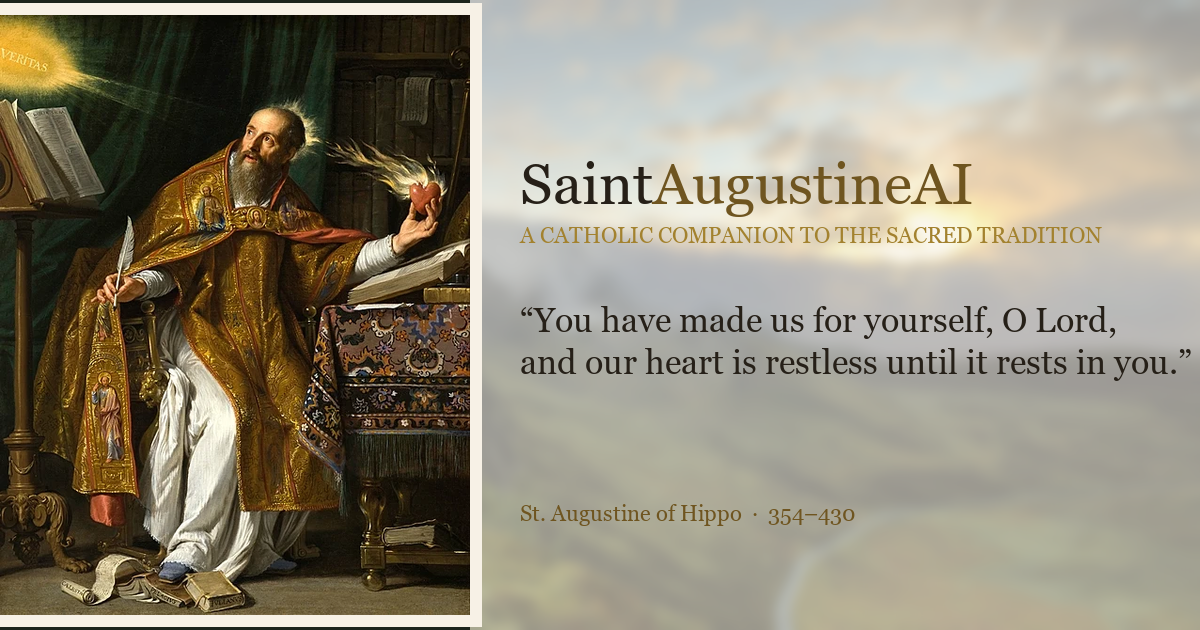
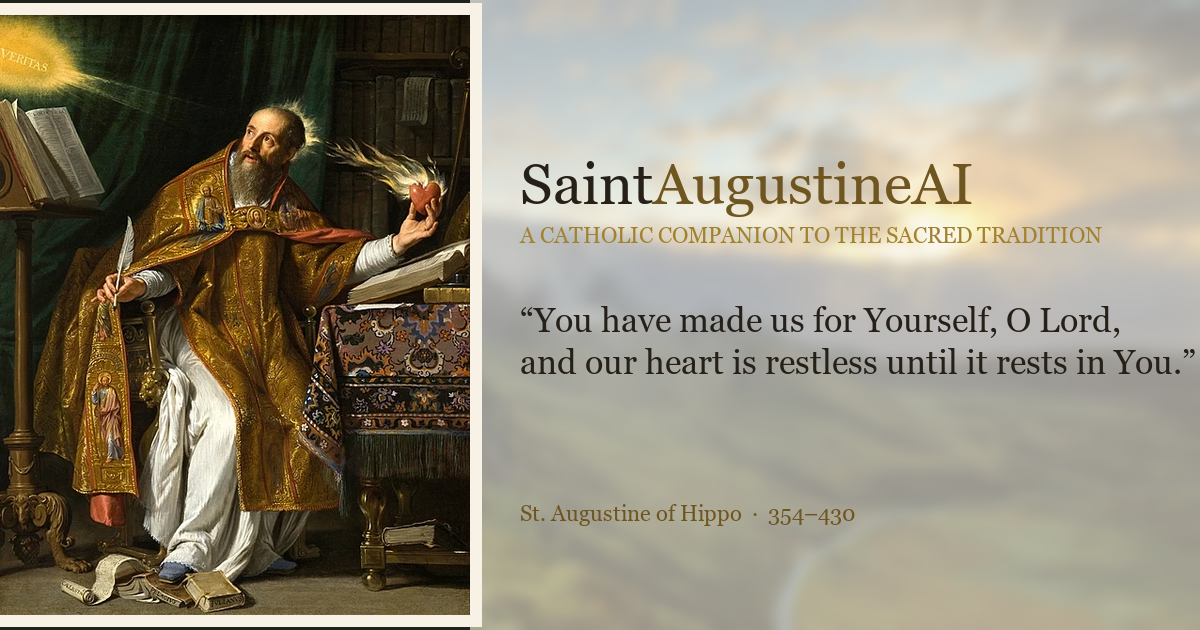
Capitalize 'Yourself'/'You' and add quotes to the restless-heart quote (greeting + share card)

Changed region(s): [[0.7092, 0.4825, 0.925, 0.5429], [0.925, 0.5429, 1.0, 0.6032]]

diff --git a/index.html b/index.html
@@ -1408,7 +1408,7 @@ html[data-motion="reduced"] *{ animation-duration:.001ms !important; transition-
   <section class="greet" id="greet">
     <span class="greet-brand">Saint<em>AugustineAI</em></span>
     <p class="eyebrow">A Catholic companion to the Sacred Tradition</p>
-            <h1>You have made us for yourself, O Lord, and our heart is restless until it rests in you.</h1>
+            <h1>&ldquo;You have made us for Yourself, O Lord, and our heart is restless until it rests in You.&rdquo;</h1>
             <p class="sub">Ask St. Augustine to explain a passage, console a weary thought, or reason through what weighs on you.</p>
           </section>
 
